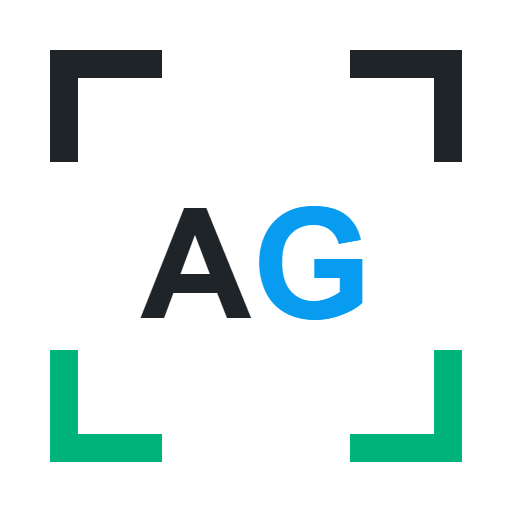
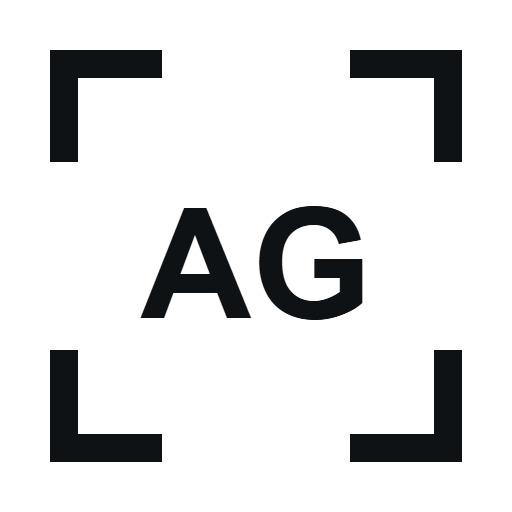
Restore original AgentGuardian visual palette

Changed region(s): [[0.5, 0.375, 0.7188, 0.625], [0.6562, 0.6562, 0.9062, 0.9062], [0.0938, 0.6562, 0.3438, 0.9062]]

diff --git a/scripts/check_brand_assets.py b/scripts/check_brand_assets.py
@@ -43,12 +43,10 @@ def main() -> None:
         assert image.size == (1280, 640)
         assert image.mode in {"RGB", "RGBA"}
 
-    for accent in ("#48B7F2", "#079CF0", "#00B37A", "#FF5B20", "#FFC04D"):
-        assert contrast(accent, "#1F2428") >= 4.5, accent
-    assert contrast("#1F2428", "#FFFFFF") >= 4.5
-    assert contrast("#D43F13", "#FFFFFF") >= 4.5
-    assert contrast("#D43F13", "#FFFDF9") >= 4.5
-    assert contrast("#B97800", "#FFFDF9") >= 3.0
+    assert contrast("#15A36D", "#0F1215") >= 4.5
+    assert contrast("#0F1215", "#F4F6F7") >= 4.5
+    assert contrast("#D49A32", "#151A1E") >= 4.5
+    assert contrast("#C64A43", "#151A1E") >= 3.0
     cover = (BRAND / "agentguardian-cover.svg").read_text(encoding="utf-8")
     assert "SYNTHETIC DEMO" in cover
 

diff --git a/docs/superpowers/plans/2026-08-01-agentguardian-founder-alpha.md b/docs/superpowers/plans/2026-08-01-agentguardian-founder-alpha.md
@@ -86,7 +86,7 @@ Expected: FAIL with `FileNotFoundError` for `assets/brand/agentguardian-mark.svg
 
 - [ ] **Step 3: Create the minimum deterministic SVG set**
 
-The mark uses a 512 square viewBox, open corner strokes, Ink `#1F2428`, Electric `#079CF0`, Mint `#00B37A`, and a centered `AG` monogram. The broader system uses White `#FFFFFF`, Sky `#48B7F2`, Coral `#FF5B20`, Sun `#FFC04D`, and Cream `#F2EDDF` as restrained accents and surfaces. Use SVG paths/shapes only; do not embed raster images. The wordmark and cover may use the fallback stack `Inter, 'Noto Sans SC', 'Segoe UI', sans-serif` with `letter-spacing="0"`.
+The mark uses a 512 square viewBox, open corner strokes, Obsidian `#0F1215`, Trust `#15A36D`, and a centered `AG` monogram. The broader system uses Cloud `#F4F6F7`, Signal `#2A8CCB`, Warning `#D49A32`, and Critical `#C64A43`. The GitHub cover uses an opaque Obsidian background. Use SVG paths/shapes only; do not embed raster images. The wordmark and cover may use the fallback stack `Inter, 'Noto Sans SC', 'Segoe UI', sans-serif` with `letter-spacing="0"`.
 
 - [ ] **Step 4: Render the three required PNG exports**
 
@@ -397,7 +397,7 @@ Use a left navigation list and a stacked content area. Alpha pages are Scope, Fi
 
 - [ ] **Step 3: Apply fixed design tokens**
 
-Use Ink, White, Sky, Electric, Mint, Coral, Sun, Cream, and Critical text colors from the design spec; bright colors are for graphic/status surfaces and Ink carries small text; 6px maximum corner radius; 0 letter spacing; system font fallback; no gradients and no decorative cards.
+Use Obsidian, Cloud, Trust, Signal, Warning, and Critical from the design spec; neutral black, white, and gray establish hierarchy, Trust marks verified states, Warning and Critical mark risk, and Signal remains auxiliary; 6px maximum corner radius; 0 letter spacing; system font fallback; no gradients and no decorative cards.
 
 - [ ] **Step 4: Smoke test and commit**
 

diff --git a/docs/superpowers/specs/2026-08-01-agentguardian-design.md b/docs/superpowers/specs/2026-08-01-agentguardian-design.md
@@ -199,7 +199,7 @@ Founder Alpha 后用 5 至 7 周硬化为可邀请试用的 Windows MVP：增加
 - 中文：让 AI Agent 的数据边界可见、可控、可验证。
 - 英文：Local-first · Open-core · User-approved remediation.
 
-基础色：Ink `#1F2428`、White `#FFFFFF`、Sky `#48B7F2`、Electric `#079CF0`、Mint `#00B37A`、Coral `#FF5B20`、Sun `#FFC04D`、Cream `#F2EDDF`、Critical text `#D43F13`。明亮色用于图形、按钮、状态块或大字号，明亮色上的文字优先使用 Ink；小字号关键状态使用通过对比度校验的深色状态文字。LOGO 同时提供 SVG、PNG、深色和浅色版本；GitHub 初代封面采用 1280 × 640，使用白色/奶油色背景、明亮蓝绿点缀、产品名、文案和合成审计概览，不放真实用户数据。
+基础色：Obsidian `#0F1215`、Cloud `#F4F6F7`、Trust `#15A36D`、Signal `#2A8CCB`、Warning `#D49A32`、Critical `#C64A43`。LOGO 同时提供 SVG、PNG、深色和浅色版本；GitHub 初代封面采用 1280 × 640，展示 Trust Frame、产品名、文案和审计概览，不放真实用户数据。
 
 ## 13. Alpha 发布门
 

diff --git a/assets/brand/README.md b/assets/brand/README.md
@@ -6,15 +6,12 @@
 
 颜色：
 
-- Ink: `#1F2428`
-- White: `#FFFFFF`
-- Sky: `#48B7F2`
-- Electric: `#079CF0`
-- Mint: `#00B37A`
-- Coral: `#FF5B20`
-- Sun: `#FFC04D`
-- Cream: `#F2EDDF`
-- Critical text: `#D43F13`
+- Obsidian: `#0F1215`
+- Cloud: `#F4F6F7`
+- Trust: `#15A36D`
+- Signal: `#2A8CCB`
+- Warning: `#D49A32`
+- Critical: `#C64A43`
 
 资产：
 
@@ -24,4 +21,4 @@
 - `agentguardian-cover.svg`：1280 × 640 GitHub 初代封面，数据明确为 `SYNTHETIC DEMO`。
 - PNG 文件是对应的发布预览，不替代 SVG 源文件。
 
-16px 以下只使用 mark，不使用 wordmark。普通文字统一使用 Ink；Sky、Electric、Mint、Coral 和 Sun 用于图形、按钮、状态块或大字号展示。明亮色上的文字优先使用 Ink；关键状态同时显示文字。
+16px 以下只使用 mark，不使用 wordmark。浅色背景上的关键笔画和文字使用 Obsidian；深色背景上的 Trust 可承载文字和关键图形。Warning、Critical 和 Signal 只作状态或辅助信号，关键状态同时显示文字。
